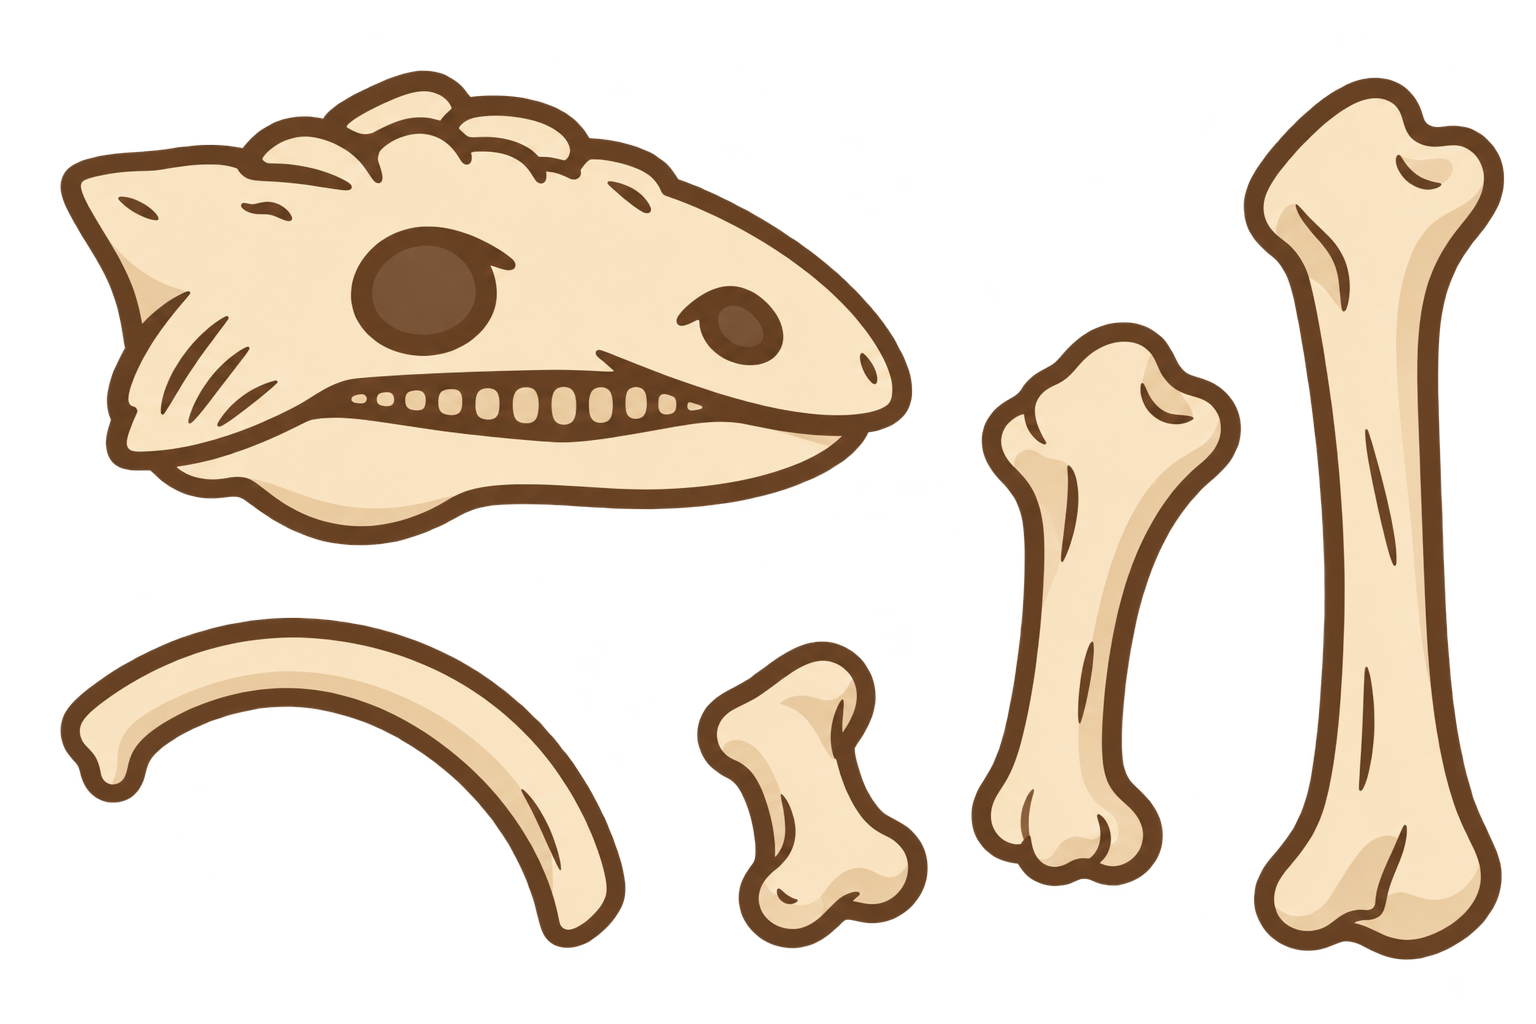
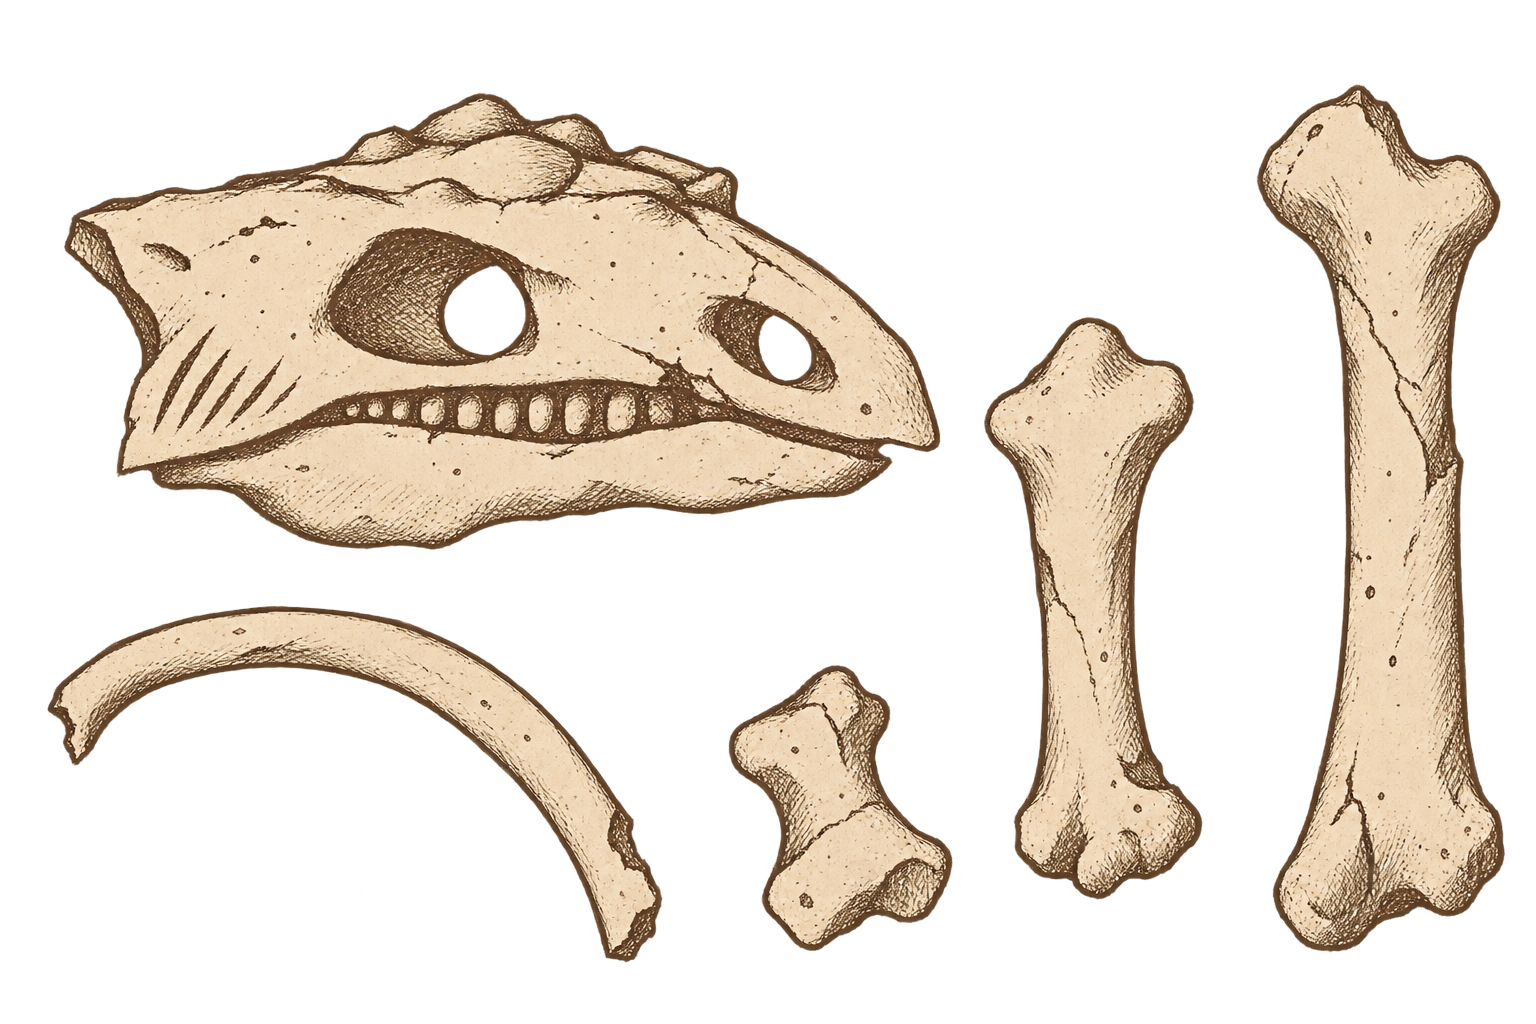
art: swap in the redrawn fossil sheet
The old sheet read as vector clip art: one uniform stroke weight, heavy
near-black outlines, an inner highlight band, and mirror-symmetric bones.
The redraw has variable-weight sepia ink, cross-hatching, asymmetric
forms and real fenestrae in the skull.

Every bounding box moved, so the five crops are re-measured off the new
alpha channel and the widths reset to hold a single rendered/crop ratio,
which is what keeps the ink weight even across pieces. Left and top are
set so each piece keeps the centre it had, leaving the composition where
it was on every layout.

The cracks are regenerated against the new silhouettes. Each one is
grown only through pixels whose full neighbourhood is opaque, so none of
them can be swallowed by an edge or by the skull's new openings. Crack
stroke drops to 1.3 in a matching sepia so it does not overpower the
finer linework.

Changed region(s): [[0.0312, 0.0625, 0.8125, 0.9375], [0.8125, 0.0625, 1.0, 0.9375], [0.0312, 0.5938, 0.4375, 0.9375]]

diff --git a/app/components/FossilNav.tsx b/app/components/FossilNav.tsx
@@ -20,84 +20,83 @@ type Piece = {
   /* where the tag sits relative to the piece */
   tag: "right" | "left" | "below"
   /* Three cracks that spread in sequence. Drawn in the crop's own coordinate
-     space (sw x sh) so they scale with the piece. */
+     space (sw x sh) so they scale with the piece, and placed only where the
+     sheet's alpha is opaque well past the stroke — the mask silently erases
+     anything that strays over an edge or through the skull's fenestrae. */
   cracks: [string, string, string]
 }
 
-/* Every piece is drawn with the same outline weight in the source PNG, so the
+/* Every piece is drawn with the same ink weight in the source PNG, so the
    thickness you see is source-stroke x (rendered width / crop width). Widths
-   below are set to hold that ratio at ~0.16 for all five, which is the only way
-   to make the outlines match. Change one width and that piece's outline gets
-   heavier or lighter than its neighbours. */
+   below hold that ratio at ~0.259 for all five, which is the only way to make
+   the linework match. Change one width and that piece's ink gets heavier or
+   lighter than its neighbours. Left/top are set so each piece keeps the centre
+   it had before the artwork was redrawn. */
 const PIECES: Piece[] = [
   {
     id: "ventures",
     label: "Ventures",
     href: "/ventures",
-    sx: 60, sy: 70, sw: 854, sh: 476,
-    left: 0, top: 2, width: 29, rotate: -5,
+    sx: 64, sy: 93, sw: 876, sh: 457,
+    left: -0.4, top: 2.4, width: 29.85, rotate: -5,
     tag: "right",
-    /* Routed around the orbit (roughly x 300-420, y 180-300) and the naris,
-       and spread across cranium, jaw and snout so more of them survive. */
     cracks: [
-      "M160 158 L200 214 L156 262 M470 60 L508 104",
-      "M200 214 L264 194 M156 262 L112 292 M690 250 L724 292 M508 104 L556 90 M330 430 L380 450",
-      "M264 194 L306 148 M112 292 L88 332 M724 292 L762 320 M420 380 L470 410 M556 90 L604 116 M380 450 L424 434 M660 350 L706 372 M596 142 L636 180",
+      "M739 305 L775 272 L821 265",
+      "M32 137 L50 180 L95 202 M315 440 L307 387 L325 350",
+      "M821 265 L841 289 M739 305 L766 315 M95 202 L128 204 M32 137 L74 123 M325 350 L288 327",
     ],
   },
   {
     id: "internships",
     label: "Internships",
     href: "/internships",
-    sx: 1244, sy: 78, sw: 260, sh: 882,
-    left: 3, top: 46, width: 8.9, rotate: -18,
+    sx: 1257, sy: 84, sw: 248, sh: 868,
+    left: 3.2, top: 46.5, width: 8.45, rotate: -18,
     tag: "below",
     cracks: [
-      "M132 300 L104 372 L136 432",
-      "M136 432 L108 502 M132 300 L152 238",
-      "M104 372 L66 350 M136 432 L174 462",
+      "M68 752 L66 803 L71 850",
+      "M91 28 L129 55 L151 99 M165 393 L178 435 L170 491",
+      "M71 850 L98 838 M68 752 L90 774 M151 99 L122 132 M91 28 L120 32 M170 491 L191 512",
     ],
   },
   {
     id: "projects",
     label: "Projects",
     href: "/projects",
-    sx: 972, sy: 322, sw: 270, sh: 566,
-    left: 21, top: 34, width: 9.2, rotate: 24,
+    sx: 984, sy: 317, sw: 219, sh: 583,
+    left: 21.9, top: 33.6, width: 7.46, rotate: 24,
     tag: "below",
     cracks: [
-      "M136 208 L108 266 L142 312",
-      "M142 312 L118 362 M136 208 L158 162",
-      "M108 266 L76 248 M142 312 L178 332",
+      "M66 102 L69 129 L87 147",
+      "M110 564 L134 542 L137 508 M72 335 L84 309 L111 282",
+      "M87 147 L63 163 M66 102 L87 104 M137 508 L161 509 M110 564 L130 547 M111 282 L105 265",
     ],
   },
   {
     id: "teaching",
     label: "Teaching",
     href: "/teaching",
-    sx: 60, sy: 618, sw: 566, sh: 330,
-    left: 40, top: 42, width: 19.3, rotate: -8,
+    sx: 47, sy: 606, sw: 616, sh: 356,
+    left: 39.1, top: 41.4, width: 20.99, rotate: -8,
     /* Beside, not below — Fun! sits directly under this one. */
     tag: "right",
-    /* The rib is a thin arc — most of this box is the empty space inside the
-       curve. Cracks are placed on the opaque band, measured per column. */
     cracks: [
-      "M196 14 L208 44 L194 76",
-      "M296 22 L308 56 L294 88 M118 42 L128 70 L114 100",
-      "M394 58 L406 92 L392 122 M452 104 L466 142",
+      "M264 49 L305 52 L332 39",
+      "M580 331 L592 299 L582 266 M21 96 L52 80 L76 58",
+      "M332 39 L353 54 M264 49 L286 50 M582 266 L553 260 M580 331 L592 307 M76 58 L84 78",
     ],
   },
   {
     id: "fun",
     label: "Fun!",
     href: "/fun",
-    sx: 698, sy: 642, sw: 230, sh: 308,
-    left: 50, top: 70, width: 7.8, rotate: -40,
+    sx: 728, sy: 665, sw: 225, sh: 286,
+    left: 50.1, top: 70.5, width: 7.67, rotate: -40,
     tag: "below",
     cracks: [
-      "M116 128 L94 166 L122 196",
-      "M122 196 L106 228 M116 128 L132 98",
-      "M94 166 L68 158 M122 196 L152 208",
+      "M167 211 L169 227 L175 240",
+      "M106 18 L93 31 L89 51 M68 136 L74 148 L90 155",
+      "M175 240 L189 236 M167 211 L157 220 M89 51 L96 63 M106 18 L113 24 M90 155 L104 153",
     ],
   },
 ]

diff --git a/app/globals.css b/app/globals.css
@@ -221,8 +221,8 @@ body {
 
 .ck {
   fill: none;
-  stroke: #7a5c3d;
-  stroke-width: 1.6;
+  stroke: #6b4f35;
+  stroke-width: 1.3;
   stroke-linecap: round;
   stroke-linejoin: round;
   opacity: 0;
